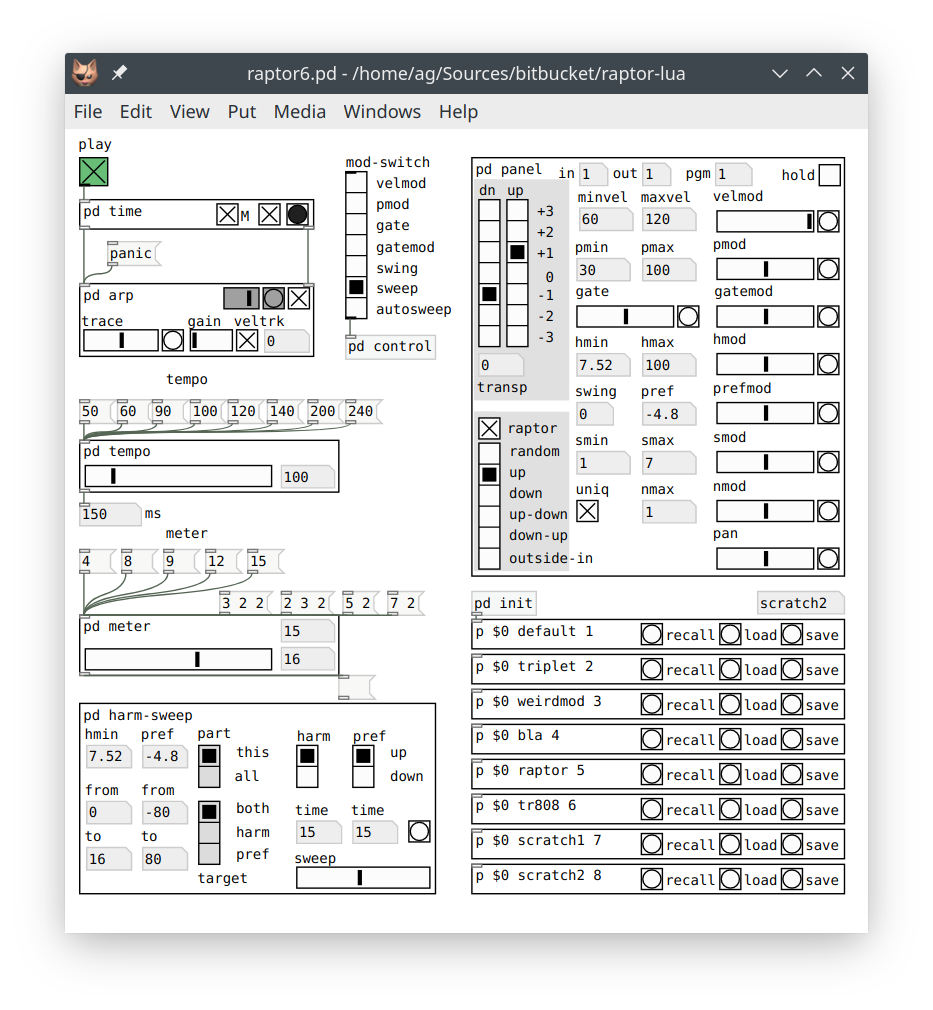
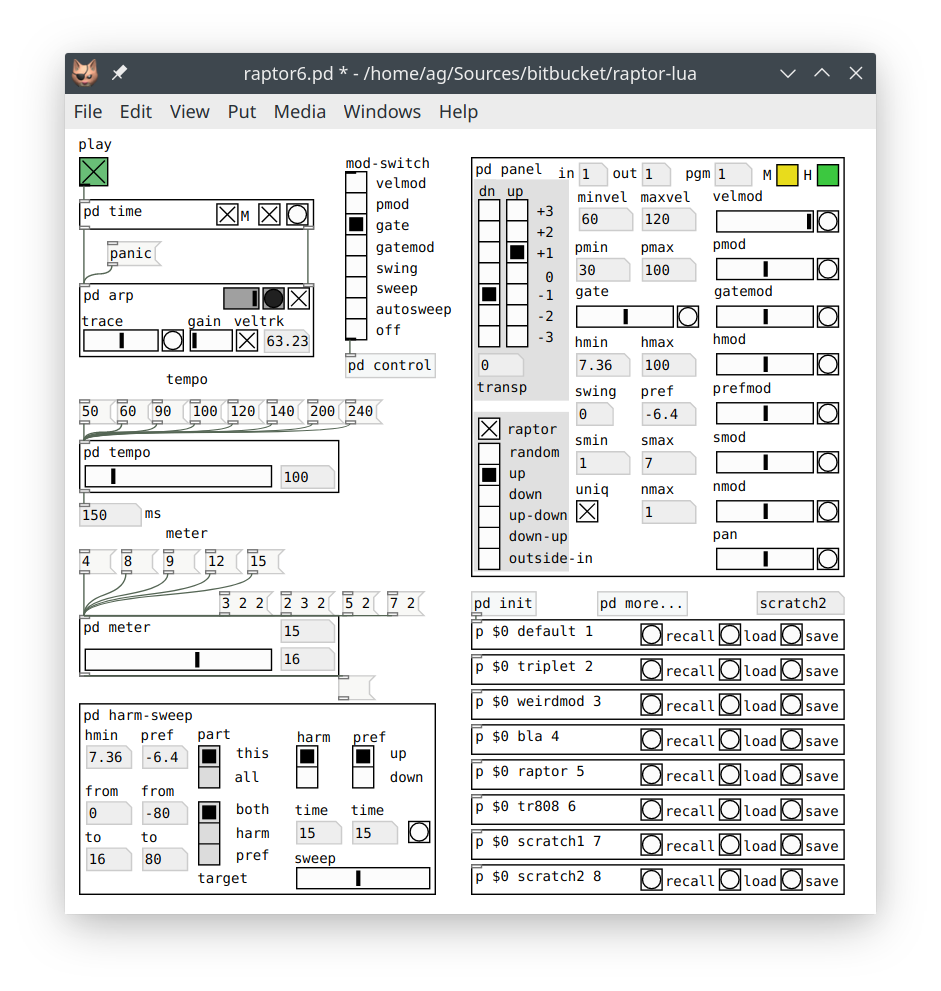
Add a mute control (CC67) which suspends note output, rework some of the PACER bindings.

Changed region(s): [[0.0622, 0.0605, 0.9325, 0.9082], [0.9014, 0.0605, 0.9325, 0.0908]]

diff --git a/README.md b/README.md
@@ -1,5 +1,3 @@
-
-
 # Raptor: The Random Arpeggiator
 
 March 2021  
@@ -13,31 +11,29 @@ The raptor6.pd patch implements an experimental arpeggiator program based on the
 
 Raptor is quite advanced as arpeggiators go, it's really a full-blown algorithmic composition tool, although it offers the usual run-of-the-mill deterministic and random arpeggios as well. But the real magic starts when you turn on `raptor` mode and start playing around with the parameters in the panel. The algorithm behind Raptor is briefly sketched out in my [ICMC 2006 paper][] (cf. Section 8), and you'll find some practical information to get you started below. But if you'd like to get a deeper understanding of how the algorithm actually works, you'll have to dive into the source code and read Barlow's article in the [Ratio book][] for now.
 
-Using the patch is easy enough, however. Hook up your MIDI keyboard and synthesizer to Pd's MIDI input and output, respectively, press `play` and just play some chords. I'm mostly using Raptor with a MIDI guitar and a [Nektar PACER][] foot pedal these days, so the patch is somewhat geared towards that use case, but it also works fine with any MIDI keyboard and a free software synth such as [Qsynth][].
+Using the patch is easy enough, however. Hook up your MIDI keyboard and synthesizer to Pd's MIDI input and output, respectively, press `play` and just play some chords. I'm mostly using Raptor with a MIDI guitar and a [Nektar PACER][] foot pedal these days, so the patch is somewhat tailored for that use case, but it also works fine with just a MIDI keyboard and a free software synth such as [Qsynth][].
 
-This project is still work in progress. There's some stuff on the TODO list, such as OSC control and a looper facility. The included presets also need some work, but hey, you get them for free! ;-) Feel free to modify and use them for whatever purpose. Bug reports and other contributions are welcome. And I'm always curious about music made with my programs, so please do send me links to music produced with Raptor!
+This project is still work in progress. There's some stuff on the TODO list, such as OSC control and a looper facility. The included presets also need some work, but hey, you get them for free, and you can always change them! ;-) Bug reports and other contributions are welcome. And I'm always curious about music made with my programs, so please do send me links to music produced with Raptor!
 
 ## Usage
 
-When Raptor launches, all parameters are set to factory defaults, which can be found in the `init` subpatch. A few sample presets are included in the presets folder, use the `p` abstractions in the lower right corner of the main patch to switch between these, or create your own. (As shipped, the first preset labeled `default` is identical to the factory defaults, so that you can quickly restore some sane defaults if needed.)
+When Raptor launches, all parameters are set to factory defaults, which can be found in the `init` subpatch. A few sample presets are included in the presets folder, use the `p` abstractions in the lower right corner of the main patch to switch between these, or create your own. (As shipped, the first preset labeled `default` is identical to the factory defaults, so that you can quickly restore some sane defaults if needed. More presets can be found in the `more...` subpatch.)
 
 Presets are stored on disk as editable text files in Pd's qlist format (which basically just lists parameter names and their corresponding values), and the file name is specified using the second argument of the `p` abstraction. The main patch has quite a few controls to change meter, tempo, and the other parameters of the algorithm, as well as a few MIDI-related settings (input and output channel, program number) in the `panel` and `harm-sweep` subpatches. The current state of all these parameters is stored in a preset on disk if you hit the `save` button, so that you can recall it later with the `recall` button. The `load` button lets you reload a preset from disk and immediately recall it, which is useful if you edited the preset outside of Raptor in a text editor, and of course all presets are reloaded automatically whenever you launch Raptor.
 
 You can have a whole band of Raptors accompanying you, by running multiple instances of the main patch in concert in the same Pd instance. Just make sure that you select one of the instances as the time master (`M` toggle in the `time` subpatch), which happens automatically if you press the big green `play` toggle in one of the instances.
 
-Talking about controls, most of them have MIDI bindings (see the "Control" section below) and are also recorded in presets, but there are a few global GUI controls that you should know about. As indicated below, some of these are saved in the raptor6 patch itself, so you can just set the controls as you prefer, and save the patch to change their defaults.
+Talking about controls, most of them have MIDI bindings (see the "Control" section below) and are also recorded in presets, but there are a few GUI controls that you should know about. As indicated below, some of these are saved in the raptor6 patch itself, so you can just save the patch to change their defaults.
 
-First, in the `time` subpatch there is the time master (`M`) toggle (saved in the patch) that we already discussed. But there's also a second (unlabeled) start/stop toggle (not saved) which enables you to start and stop the sequence manually, and a button (a Pd "bang" control) to trigger individual pulses in a step-wise fashion, which can be useful for debugging purposes.
+First, in the main patch there's the `mod-switch` control (saved in the patch) which assigns some PACER controls to various different parameters for hands-free operation, please check the pacer subfolder for details. Most related controls can be found in the `panel` subpatch; the most prominent of these are the yellow mute toggle (labeled `M`) which mutes the arpeggiator (stops all note output), and the green hold toggle (labeled `H`) which holds all note input in memory, so that the arpeggiator keeps playing the same pattern while this toggle is engaged. These are intended mostly for live control and automation, so they both have MIDI bindings (CC64 and CC67). Of course, you can also operate them in the GUI, but their state is neither saved in the patch nor in presets.
 
-Second, there's the `arp` subpatch containing the guts of the arpeggiator itself. You can send a `panic` message to the arpeggiator to kill hanging notes, and switch the metronome on and off with the toggle control (saved in the patch) in the upper-right corner. A gray slider gives an indication of the pulse strengths (which are also used to generate the metronome ticks), and the gray bang control besides it briefly flashes on the first (and strongest) pulse of each bar. You'll notice that this bang control also temporarily goes red if you stop the sequence with the `play` control, while the arpeggiator still finishes the current bar. (If needed, you can also stop the sequence immediately using the start/stop toggle in the `time` subpatch.)
+Second, in the `time` subpatch there is the time master (`M`) toggle (saved in the patch) that we already discussed. But there's also a second (unlabeled) start/stop toggle (not saved) which enables you to start and stop the sequence manually, and a button (a Pd "bang" control) to trigger individual pulses in a step-wise fashion, which can be useful for debugging purposes.
 
-In the second row you find the following controls:
+Third, there's the `arp` subpatch containing the guts of the arpeggiator itself. You can send a `panic` message to the arpeggiator to kill hanging notes, and switch the metronome on and off with the toggle control in the upper-right corner (saved in the patch). A gray slider gives an indication of the pulse strengths, and the gray bang control besides it briefly flashes at the beginning of each bar. You'll also notice that this bang control temporarily goes red if you stop the sequence, until the arpeggiator finishes playing the current bar. (If needed, you can also stop the sequence immediately using the start/stop toggle in the `time` subpatch.)
 
-- `trace` (saved in the patch) changes the amount of time note-offs are delayed. This produces a kind of "legato" effect, making notes stick around a little longer while you're changing chords. The slider goes from 0 to 600 ms, the default being 300 ms (the button to the right of the slider resets the control to that value). I find this useful, but if you don't, just disable it by setting its value to 0.
+In the second row you find the `trace` control (saved in the patch) which changes the amount of time note-offs are delayed. This produces a kind of "legato" effect, making notes stick around a little longer while you're changing chords. The slider goes from 0 to 600 ms, the default being 300 ms (the button to the right of the slider resets the control to that value), setting it to zero disables the effect. Then there's the `gain` control which sets the input gain of the *velocity tracker*, which can be enabled or disabled with the `veltrk` toggle (saved in the patch). The tracker calculates a kind of envelope from the velocities of the notes that you play and adjusts the velocities of generated output notes accordingly, so that they follow your performance. The current value is displayed in the number box to the right of the toggle, and the `gain` control, which is bound to the MIDI volume controller (CC7) and also stored in presets, allows you to boost that value if needed. This is a quick remedy if your MIDI controller produces very low velocities, as some controllers do, but you can also use it as an expression control.
 
-- `gain` controls the input gain of the *velocity tracker* which can be enabled or disabled with the `veltrk` toggle (saved in the patch). The velocity tracker calculates a kind of envelope from the velocities of the notes that you play and adjusts the velocities of generated output notes accordingly, so that they follow your performance. The current value is displayed in the number box to the right of the toggle, and the `gain` control allows you to boost that value if needed. This is a quick remedy if your MIDI controller produces very low velocities, as some controllers do, or you can use it as an expression control. The `gain` control is bound to the MIDI volume controller (CC7) and also stored in presets, rather than being saved in the patch.
-
-Moreover, hidden away at the bottom of the `arp` subpatch you'll find two additional toggles, `bend` and `touch` (both saved in the patch), which determine whether to pass through pitch bend and aftertouch (a.k.a. channel pressure) messages from MIDI input to output. As shipped, pass-through is enabled for pitch bend and disabled for aftertouch, which is the setting that I prefer, but you can change them to whatever you like if you open that subpatch.
+Hidden away at the bottom of the `arp` subpatch you'll find two additional toggles, `bend` and `touch` (both saved in the patch), which determine whether to pass through pitch bend and aftertouch (a.k.a. channel pressure) messages from MIDI input to output. As shipped, pass-through is enabled for pitch bend and disabled for aftertouch, but you can change this to whatever you like if you open that subpatch.
 
 ## Meter and Tempo
 
@@ -59,14 +55,6 @@ By these means, patterns become a lot more varied, containing notes you didn't a
 
 Most of Raptor's parameters have MIDI bindings, so they can be automatized, e.g., in a DAW. For live performance, the patch contains a control subpatch for the PACER, and I've also included my modified PACER setup in case you want to use it, please check the pacer subfolder for details. But all the various switches and parameters are also accessible through the GUI or the MIDI bindings listed below.
 
-**NOTES:**
-
-- In the following table, *PC* refers to "program change", *CC* to "control change" messages. Like any MIDI input in Raptor, these are only received on the MIDI input channel (`in` numbox) set in the panel, which can be zero to denote "omni", i.e., receive on all MIDI channels.
-- The table also lists the range of parameters. For "discrete" controls (0-n switches: mode, raptor mode, hold, and uniq), the control value is taken as is, and any value greater than the number of alternatives is clamped to the given range. In particular, for 0-1 switches (raptor mode, hold, and uniq), *any* positive value means "on".
-- For other ("continuous") controls the full 0-127 MIDI range is mapped to the parameter range, and a CC value of 64 denotes the middle of the range (which means zero for parameters with a bipolar range, such as the "bias" parameters explained below).
-- 0-100 ranges generally denote percentages, which are used for probabilities (pmin, pmax) and harmonicities (hmin, hmax). The gate parameter, which determines how long generated output notes are sustained, is also specified as a percentage of the pulse length, but its range goes from 0% (extreme staccato) to 200% (extreme legato), with 100% (the default) indicating that each note lasts exactly as long as the pulse length.
-- Some parameters (pref, swing, as well as all the "mod" parameters) denote bias values ranging from -100% to +100% which are used for automatic modulation of other parameters according to pulse strengths in the chosen meter. A *positive* bias means that the value of the dependent parameter increases for *stronger* and decreases for *weaker* pulses; conversely, a *negative* bias indicates that the parameter increases for *weaker* and decreases for *stronger* pulses; and a *zero* bias means that the parameter does *not* vary with pulse strength at all.
-
 | Control    | Range     | Meaning                                                      |
 | ---------- | --------- | ------------------------------------------------------------ |
 | PC         | 0..127    | selects preset 1-128                                         |
@@ -86,6 +74,7 @@ Most of Raptor's parameters have MIDI bindings, so they can be automatized, e.g.
 | CC30       | -100..100 | pref (harmonic preference)                                   |
 | CC31       | -100..100 | prefmod (harmonic preference bias)                           |
 | CC64       | 0..1      | hold (keep current chord in memory while "on")               |
+| CC67       | 0..1      | mute (suppress note output while "on")                       |
 | CC75       | 0..200    | gate (as percentage of pulse length)                         |
 | CC76       | -100..100 | gatemod (gate bias)                                          |
 | CC77       | -100..100 | swing bias (note delays modulated by pulse strength)         |
@@ -95,6 +84,14 @@ Most of Raptor's parameters have MIDI bindings, so they can be automatized, e.g.
 | CC87       | 0..127    | nmax (maximum chord size a.k.a. number of notes per step)    |
 | CC88       | -100..100 | nmod (chord size bias)                                       |
 | CC89       | 0..1      | uniq (don't repeat notes in consecutive steps)               |
+
+**NOTES:**
+
+- *PC* refers to "program change", *CC* to "control change" messages. Like any MIDI input in Raptor, these are only received on the MIDI input channel (`in` numbox) set in the panel, which can be zero to denote "omni", i.e., receive on all MIDI channels.
+- The table also lists the range of parameters. For "discrete" controls (0-1 switches: hold, raptor mode, and uniq; 0-n switches: mode), the control value is taken as is, and any value greater than the number of alternatives is clamped to the given range. Thus, for the 0-1 switches, *any* positive value means "on".
+- For other ("continuous") controls the full 0-127 MIDI range is mapped to the parameter range, and a CC value of 64 denotes the middle of the range (which means zero for parameters with a bipolar range, such as the "bias" parameters explained below).
+- 0-100 ranges generally denote percentages, which are used for probabilities (pmin, pmax) and harmonicities (hmin, hmax). The gate parameter, which determines how long generated output notes are sustained, is also specified as a percentage of the pulse length, but its range goes from 0% (extreme staccato) to 200% (extreme legato), with 100% (the default) indicating that each note lasts exactly as long as the pulse length.
+- Some parameters (pref, swing, as well as all the "mod" parameters) denote bias values ranging from -100% to +100% which are used for automatic modulation of other parameters according to pulse strengths in the chosen meter. A *positive* bias means that the value of the dependent parameter increases for *stronger* and decreases for *weaker* pulses; conversely, a *negative* bias indicates that the parameter increases for *weaker* and decreases for *stronger* pulses; and a *zero* bias means that the parameter does *not* vary with pulse strength at all.
 
 [ICMC 2006 paper]: http://hdl.handle.net/2027/spo.bbp2372.2006.021
 [Ratio book]: http://clarlow.org/wp-content/uploads/2016/10/THE-RATIO-BOOK.pdf

diff --git a/pacer/PACER.md b/pacer/PACER.md
@@ -6,18 +6,18 @@
 
 The [Nektar PACER][] makes for a great hands-free controller for live performances with Raptor, especially if you're playing MIDI guitar. This directory contains my custom PACER setup for Raptor, raptor-D1-3.syx, consisting of modified presets D1-D3 (these are the only presets contained in the sysex dump). You can load these into the PACER using François Georgy's web-based [PACER Editor][], or any sysex librarian such as [SimpleSysexxer][].
 
-The three presets are based on the A1, D2, and D3 factory presets of the PACER. They provide the following functions within Raptor:
+The three presets are based on the A1, D2, and D3 factory presets of the PACER, but have quite a few modifications (and different names). They provide the following functions within Raptor (the actual CCs are subject to change and are not listed here; you can find them in Raptor's `control` subpatch if needed):
 
 - **D1 (R1PRE):** program changes (PC1-6), these recall presets 1-6 of the arpeggiator
 - **D2 (R2MOD):** switches 1-4 are toggles, 5+6 are triggers (momentary switches), assigned as follows:
     - switches 1+2 (down/up) change the octave range (+1 down/up), switch 3, when activated, adds another octave
     - switch 4 (mod shift) and switch 5 (mod) together control whatever parameter is assigned with the "mod-switch" control in the main patch, see below for details
-    - switch 6 triggers "play", turning the arpeggiator on or off; unlike the other switches, this trigger is always received by the part which currently acts as the time master (i.e., the Raptor patch which has the "M" toggle engaged; note that only one part can be the time master at any one time)
+    - switch 6 triggers "play", turning the arpeggiator on or off; unlike the other switches, this trigger is always received by the Raptor instance which currently acts as the time master (i.e., the instance which has the "M" toggle engaged in its `time` subpatch; note that only one instance can be the time master at any one time)
 - **D3 (R3ARP):** switches 1-6 select the different arpeggiator modes (random, up, down, up-down, down-up, outside-in); switch 6, when long-pressed (>= 500 ms), toggles "raptor" mode (a very long press >= 1000 ms cancels the operation)
-- **EXP1+2:** These refer to the two expression pedals which can be hooked up to the EXP1 and EXP2 sockets on the back of the PACER. They are unchanged from the PACER's factory settings and work in all three presets. In Raptor, EXP1 (CC7) controls the input gain of the velocity tracker, while EXP2 (CC11), like R2MOD switch 5, controls the mod parameter which enables continuous changes of whatever parameter is assigned with the "mod-switch" control. The latter control is also bound to CC1 (the modulation wheel), so that you can also modify the parameter on your MIDI keyboard.
-- **FS1:** This refers to a sustain pedal plugged into the FS1 socket on the back of the PACER. D1-D3 all have FS1 set to CC64 which enables the "hold" function while the pedal is being pressed. Note that many MIDI keyboards also offer this kind of socket and have it assigned to CC64 by default, so that you can also invoke the "hold" function from your keyboard if needed.
+- **EXP1+2:** These refer to the two expression pedals which can be hooked up to the EXP1 and EXP2 sockets on the back of the PACER. They are unchanged from the PACER's factory settings and work in all three presets. In Raptor, EXP1 (CC7) controls the input gain of the velocity tracker, while EXP2 (CC11), like R2MOD switch 5, controls the mod parameter and enables continuous changes of whatever parameter is assigned with the "mod-switch" control. The latter control is also bound to CC1 (the modulation wheel), so that you can also modify the parameter on your MIDI keyboard.
+- **FS1+2:** These refer to foot switches such as a sustain pedal plugged into the FS1 and FS2 sockets on the back of the PACER. D1-D3 all have FS1 and FS2 set to CC64 and CC67 which are bound to the "hold" and "mute" functions of the arpeggiator, respectively. Note that many MIDI keyboards also have a socket for CC64 at least, so that you can also invoke the "hold" function from your keyboard if needed.
 
-**The mod-switch control:** In preset D2 (R2MOD), switch 5 (mod) toggles whatever parameter is assigned using the "mod-switch" control in the main patch. Switch 4 (mod shift), when engaged, reverses the polarity of the change (going down if the unshifted control goes up, and vice versa). The selected parameter can also be changed continuously using EXP2 in any preset, see above. Currently the available mod-switch options are velmod, pmod, gate, gatemod, and swing, which change the corresponding panel value, as well as sweep and autosweep which control the harmonicity sweep effect in the `harm-sweep` subpatch. The sweep option lets you change harmonicity and/or preference manually using switch 5 or the EXP2 pedal, going down by default and up if switch 4 (mod shift) is engaged. The autosweep option simply triggers the automatic sweep as configured in the `harm-sweep` subpatch (here it doesn't make a difference whether switch 4 is engaged or not).
+**The mod-switch control:** In preset D2 (R2MOD), switch 5 (mod) toggles whatever parameter is assigned using the "mod-switch" control in the main patch. Switch 4 (mod shift), when engaged, reverses the polarity of the change (going down if the unshifted control goes up, and vice versa). The selected parameter can also be changed continuously using EXP2 in any preset, see above. Currently the available mod-switch options are velmod, pmod, gate, gatemod, and swing, which change the corresponding panel value, as well as sweep and autosweep which control the harmonicity sweep effect in the `harm-sweep` subpatch. The sweep option lets you change harmonicity and/or preference manually using switch 5 or the EXP2 pedal, going down by default and up if switch 4 (mod shift) is engaged. The autosweep option simply triggers the automatic sweep as configured in the `harm-sweep` subpatch (here it doesn't make a difference whether switch 4 is engaged or not). Finally, the "off" option completely disables the mod-switch control, which is sometimes useful when running multiple Raptor instances in concert.
 
 **Keyboard operation:** As already mentioned above, the "mod" and "hold" parameters have bindings to the standard CC1 (modulation wheel) and CC64 (sustain pedal) controls, which will give you at least some minimal controls for live performance on your MIDI keyboard when using Raptor without the PACER.
 
